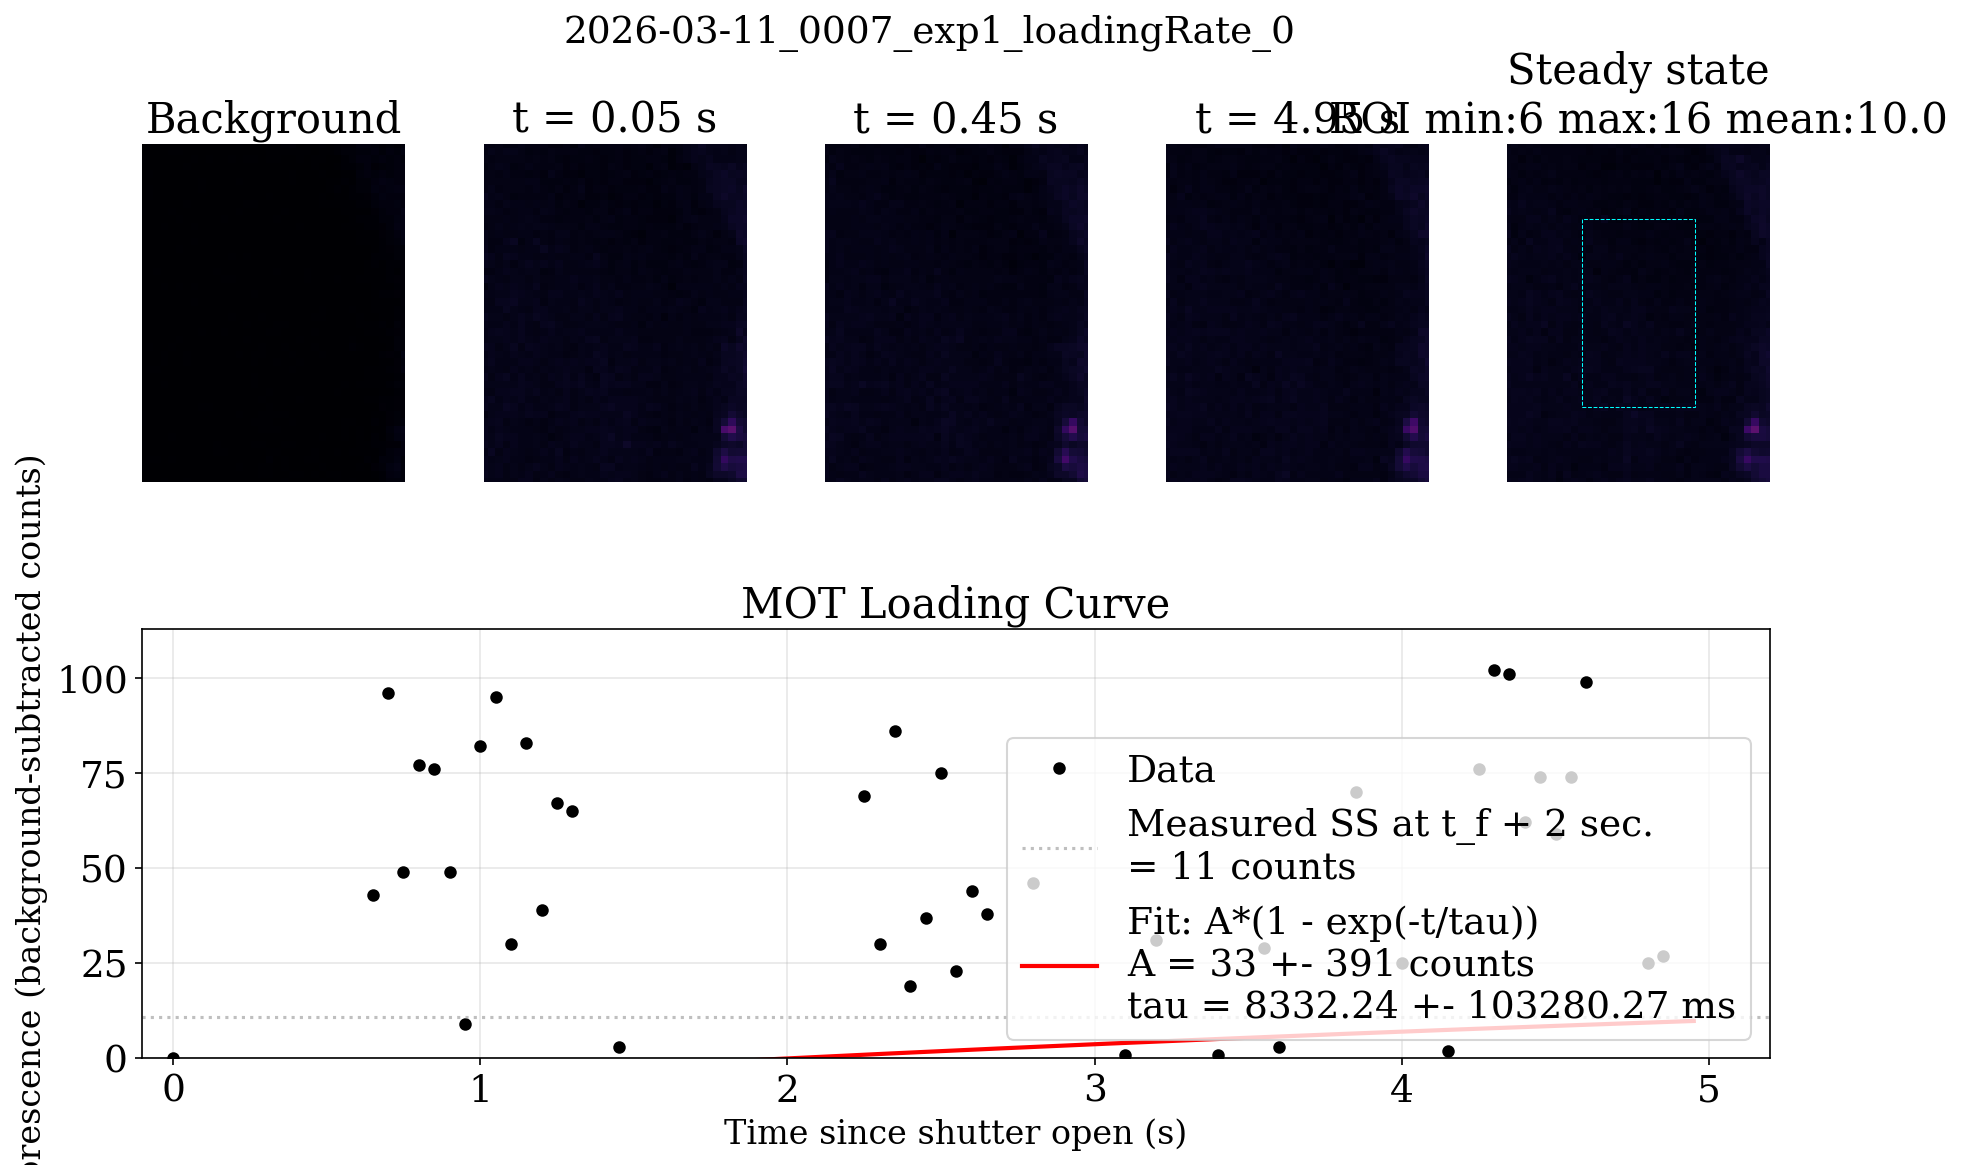
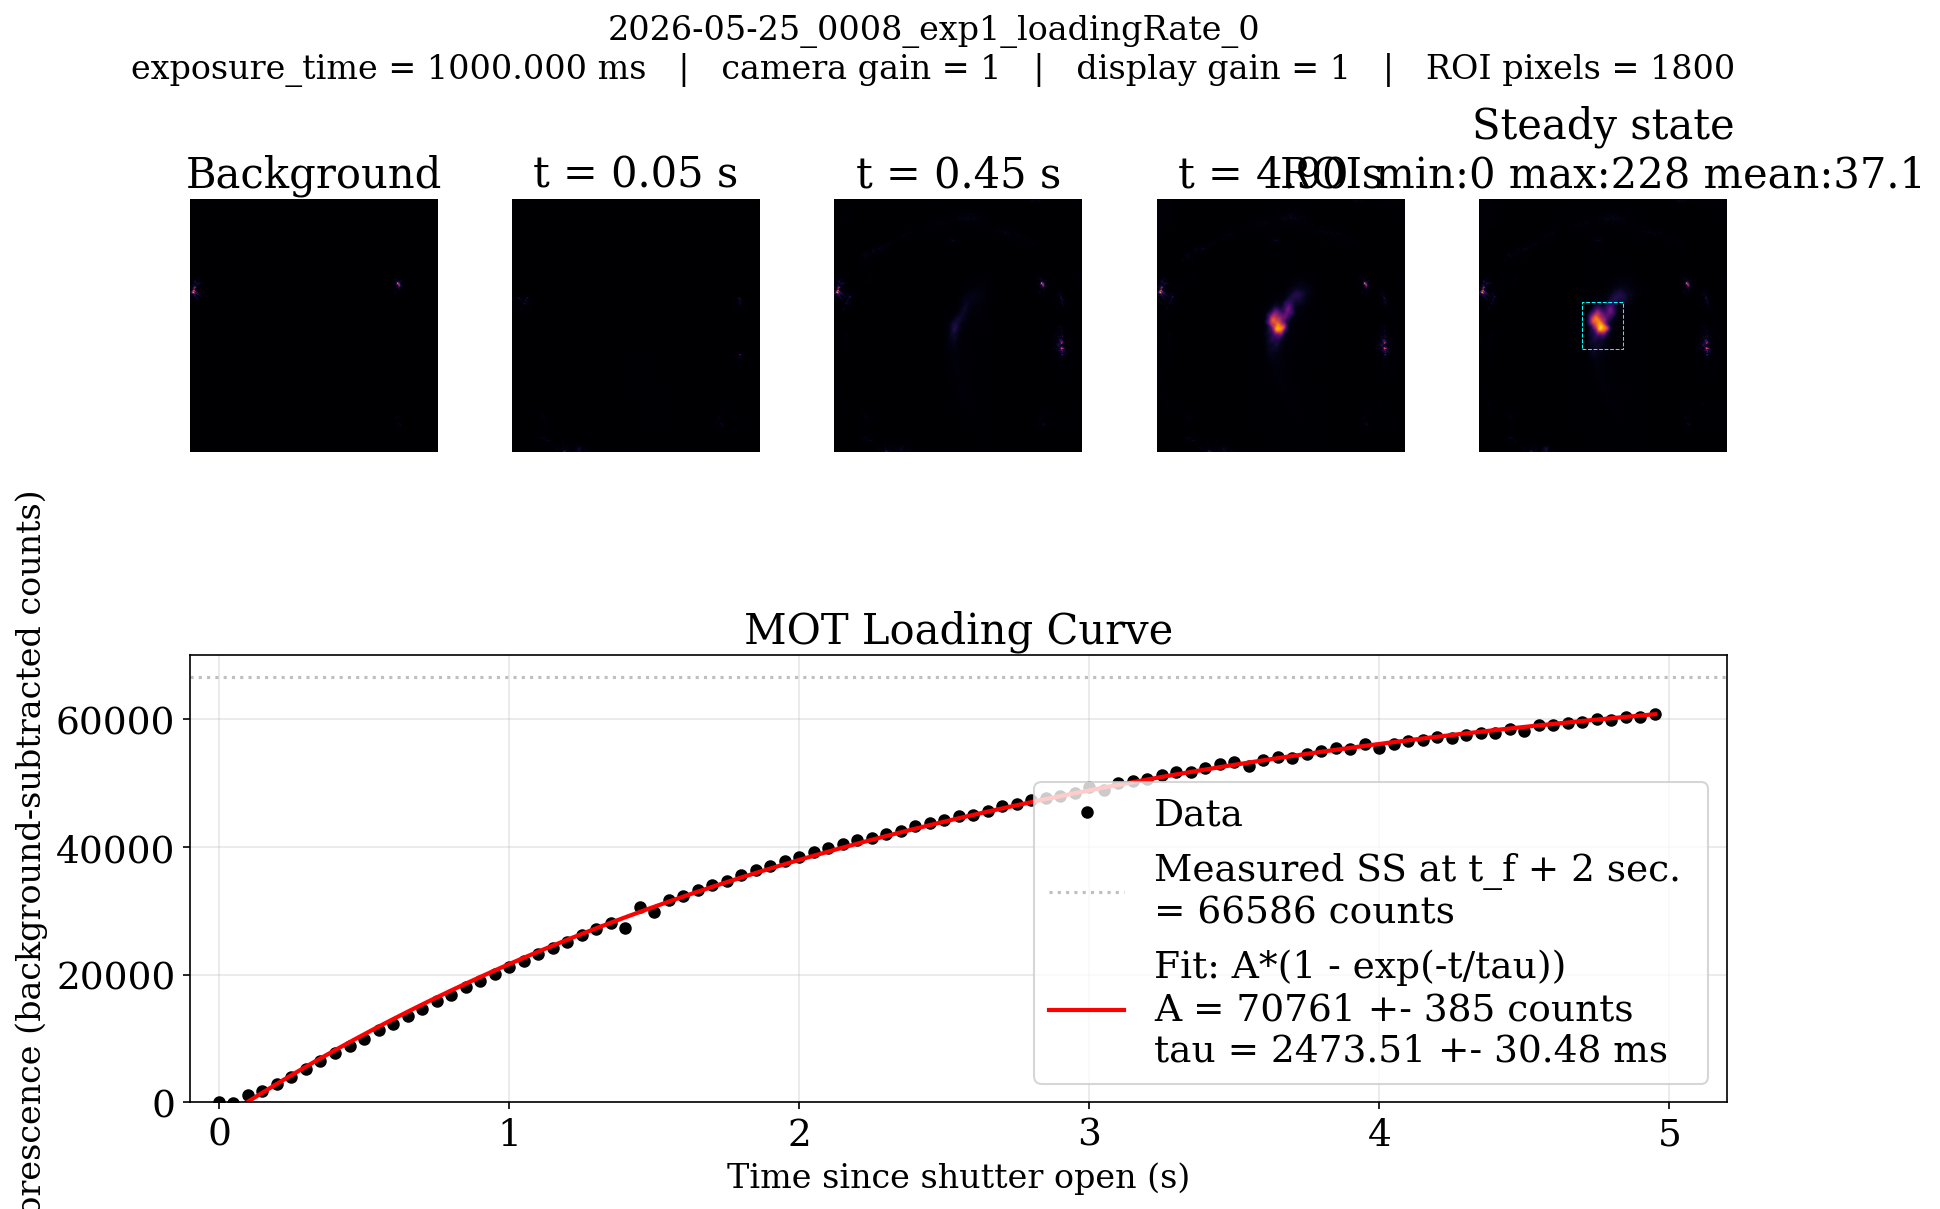
2 weeks of updates. messing with launch mostly

diff --git a/controlsAndMotDiagnosticAndLaunchTest_3_10_26/exp11_switchArmsAndLaunch.py b/controlsAndMotDiagnosticAndLaunchTest_3_10_26/exp11_switchArmsAndLaunch.py
@@ -21,17 +21,17 @@ from labscriptlib.eedmLabscriptOps.connection_table import ct
 
 def set_beam_path(t, mode):
     """Switch beam path between 'MOT' and 'MRR'."""
-    if mode == 'MOT': #set LCR to V2 (low)
+    if mode == 'MOT': #set LCR to V2 (low) #note, old liquid crystal controller is BACKWARDS from new one, high = MOT 
         #MOT_SHUTTER_do.open(t)
         #MRR_SHUTTER_do.close(t)
-        LCR_do.go_low(t)
+        LCR_do.go_high(t)
         LCR_BOT_do.go_low(t)
         #LCR_HOR_ao.constant(t, 0.0)
         LCR_TOP_ao.constant(t, 0.0)
     elif mode == 'MRR': #set LCR to V1 (high)
         #MOT_SHUTTER_do.close(t)
         #MRR_SHUTTER_do.open(t)
-        LCR_do.go_high(t)
+        LCR_do.go_low(t)
         #LCR_BOT_do.go_high(t)
         #LCR_HOR_ao.constant(t, 5.0)
         #LCR_TOP_ao.constant(t, 5.0)
@@ -107,7 +107,7 @@ if __name__ == "__main__":
     bbd301.set_velocity(1, v_stage)
     bbd301.set_acceleration(1, a_stage)
     bbd301.set_move_distance(1, xf_stage)
-    bbd301.set_reset_position(1, 135)
+    bbd301.set_reset_position(1, 140)
 
     if 1: #print stage config for debugging
         print(f"Stage config:")
@@ -136,9 +136,13 @@ if __name__ == "__main__":
     MAIN_REL_JUMP_do.go_low(t)
     #REPUMP_REL_JUMP_do.go_low(t)
     MRR_TRIG_do.go_low(t)
-    MAIN_JUMP_AMP_ao.constant(t, v_laser_jump_rel)
+    #MAIN_JUMP_AMP_ao.constant(t, v_laser_jump_rel)
+    MAIN_JUMP_AMP_ao.constant(t, 0.0)
     set_beam_path(t, 'MOT')
     MOT_SHUTTER_do.close(t)
+    MRR_SHUTTER_2_do.close(t)
+    MRR_SHUTTER_do.open(t)
+    
 
     LCR_HOR_ao.constant(t, 5.0)
     
@@ -165,10 +169,10 @@ if __name__ == "__main__":
     # Reference image -- MOT in home position
     # ============================================================
     add_time_marker(t, "Reference image", verbose=True)
-    #my_ids_camera.expose(
-    #    t=t, name='reference', frametype='atom',
-    #    trigger_duration=1*ms
-    #)
+    my_ids_camera.expose(
+        t=t, name='reference', frametype='atom',
+        trigger_duration=1*ms
+    )
     t += 0.01
 
     # ============================================================
@@ -182,6 +186,7 @@ if __name__ == "__main__":
     # PGC on MOT arm -- red shift on
     # ============================================================
     add_time_marker(t, "PGC on MOT arm", verbose=True)
+    MAIN_JUMP_AMP_ao.constant(t-0.001, v_laser_jump_rel)
     MAIN_REL_JUMP_do.go_high(t)
     t += t_redshift
 
@@ -191,21 +196,27 @@ if __name__ == "__main__":
     # ============================================================
     add_time_marker(t, "Close MOT shutter -- dark time", verbose=True)
     MOT_SHUTTER_do.close(t)
+    
+    #scope_trig_do.go_high(t)#using this as a scope trigger. Delete this
+    #scope_trig_do.go_low(t+0.1)
+    #t_trig = t
 
-    t += 0.001
+    t += 0.002
     #REPUMP_SHUTTER_do.close(t)
-    MAIN_REL_JUMP_do.go_low(t+0.002)
+    MAIN_REL_JUMP_do.go_low(t)
+    MAIN_JUMP_AMP_ao.constant(t+0.001, 0.00)
+    
 
     add_time_marker(t, "Switch to MRR arm", verbose=True)
     set_beam_path(t, 'MRR')
-   #LCR_TOP_ao.constant(t, 5.0)
+    #LCR_TOP_ao.constant(t, 5.0)
 
     t += t_dark 
     # ============================================================
     # Switch to MRR arm -- LCRs flip during dark time
     # ============================================================
 
-    MRR_SHUTTER_do.open(t)
+    MRR_SHUTTER_2_do.open(t)
 
     # ============================================================
     # Trigger stage to start accelerating
@@ -214,58 +225,65 @@ if __name__ == "__main__":
     print('v stage =', v_stage)
     print('a stage =', a_stage)
     print('v/a =', v_stage/a_stage)
-    add_time_marker(t-(v_stage/a_stage + 0.03), "Trigger MRR stage", verbose=True)
+    add_time_marker(t-(0.13), "Trigger MRR stage", verbose=True)
     if MRR_TRIG_BOOL:
-        MRR_TRIG_do.go_high(t-(v_stage/a_stage + 0.03)) #trigger at time such that stage starts moving at t=0
-        MRR_TRIG_do.go_low(t-(v_stage/a_stage + 0.03) + 0.011)
+        MRR_TRIG_do.go_high(t-(0.13)) #trigger at time such that stage starts moving at t=0
+        MRR_TRIG_do.go_low(t-(0.13) + 0.011)
+        #scope_trig_do.go_high(t-(v_stage/a_stage + 0.05))#using this as a scope trigger. Delete this
+        #scope_trig_do.go_low(t-(v_stage/a_stage + 0.05) + 0.011)
+        #ai1.acquire(label='MRR_position', start_time = t-(v_stage/a_stage + 0.05), end_time =t-(v_stage/a_stage + 0.05)+0.2)
 
     # ============================================================
     # Wait for photodiode trigger confirming shutter is open
     # ============================================================
     add_time_marker(t, "Wait for shutter open trigger", verbose=True)
     wait("mrr_shutter_open", t, timeout=0.1)
-    scope_trig_do.go_high(t)#using this as a scope trigger. Delete this
-    scope_trig_do.go_low(t+0.1)
+    
+    scope_trig_do.go_high(t)
+    scope_trig_do.go_low(t+0.02)
+    t_trig = t
 
-    ai0.acquire(label='TOF_florescence', start_time = t, end_time =t+0.1)
+    #ai0.acquire(label='TOF_florescence', start_time = t, end_time =t+0.1)
 
     
     #============================================================
     #PGC in moving frame -- red shift on ~50 us after shutter open
     #============================================================
     
-    MAIN_JUMP_AMP_ao.constant(t, -2)
+    MAIN_JUMP_AMP_ao.constant(t, -0.05)
 
     my_ids_camera.expose(
-    t=t+0.002, name=f'molasses', frametype='atom',
+    t=t+0.0005, name=f'molasses', frametype='atom',
     trigger_duration=1*ms)
 
     
     #t += 1000e-6 #works for drop
     t += 0.003
-    LCR_HOR_ao.constant(t-0.0045, 0.0)#using as MRR shutter 2 ttl
-
-
-
 
 
     add_time_marker(t, "PGC in moving frame", verbose=True)
     MAIN_REL_JUMP_do.go_high(t)
-    #MAIN_JUMP_AMP_ao.ramp(t, 0.003, 0, -0.05, 1e5)
+    #MAIN_JUMP_AMP_ao.ramp(t-0.0005, 0.002, 0, -.15, 1e5)
     #t += 0.01 #works for drop
-    t+= 0.003
+    t+= 0.002
+    MRR_SHUTTER_do.close(t)
+
 
 
     #============================================================
      #Jump back on resonance for imaging
     #============================================================
+    t += 0.002
     MAIN_REL_JUMP_do.go_low(t)
     
     #jump probe to blue
     t += 0.001
-    MAIN_JUMP_AMP_ao.constant(t, 0.001)
-    t += 0.001
+    MAIN_JUMP_AMP_ao.constant(t, -0.005)
+    t += 0.02
     MAIN_REL_JUMP_do.go_high(t)
+    MAIN_REL_JUMP_do.go_low(t+0.02)
+    
+    #REPUMP_SHUTTER_do.close(t)
     '''
     t += t_camera_delay
     my_ids_camera.expose(
@@ -293,7 +311,7 @@ if __name__ == "__main__":
     set_beam_path(t, 'MOT')
     REPUMP_SHUTTER_do.open(t)
     MOT_SHUTTER_do.open(t)
-    MRR_SHUTTER_do.close(t)
+    MRR_SHUTTER_2_do.close(t)
 
     t += .1
     stop(t)

diff --git a/controlsAndMotDiagnosticAndLaunchTest_3_10_26/lyse_exp1_loadingRate.py b/controlsAndMotDiagnosticAndLaunchTest_3_10_26/lyse_exp1_loadingRate.py
@@ -27,13 +27,16 @@ plt.rc('figure', titlesize=18)
 # ROI in pixel coordinates (row_start, row_end, col_start, col_end)
 #ROI = (275, 295, 348, 365) #from 2026 Mar 10
 #ROI = (268, 285, 353, 366) 2026 Mar 20
-ROI = (275, 300, 380, 395)
+ROI = (565, 610, 760, 800)
+DISPLAY_GAIN = 1  # display-only multiplier for images (script-side)
 # Image orientation / device name in HDF5
 ORIENTATION = 'my_ids_camera'
 
 # How many loading snapshots to show (evenly spaced from the series)
 N_SNAPSHOTS = 100
 
+n_roi_pix = (ROI[1] - ROI[0]) * (ROI[3] - ROI[2])
+print(f"ROI total pixels: {n_roi_pix}")
 # ============================================================
 # Model
 # ============================================================
@@ -49,7 +52,17 @@ run = lyse.Run(lyse.path)
 
 with h5py.File(lyse.path, 'r') as f:
     IMAGE_INTERVAL = float(f['globals'].attrs['image_interval'])
-    image_group = f['images'][ORIENTATION]  
+    # Camera settings from globals
+    try:
+        EXPOSURE_TIME = float(f['globals'].attrs['exposure_time'])
+    except (KeyError, ValueError):
+        EXPOSURE_TIME = None
+    try:
+        CAMERA_GAIN = float(f['globals'].attrs['gain'])
+    except (KeyError, ValueError):
+        CAMERA_GAIN = None
+
+    image_group = f['images'][ORIENTATION]
 
     # Background
     bg = np.array(image_group['background']['atom'], dtype=float)
@@ -135,7 +148,22 @@ else:
 # ============================================================
 n_image_panels = 2 + len(snap_indices)  # background + snapshots + steady state
 fig = plt.figure(figsize=(14, 8))
-fig.suptitle(shot_file.replace('.h5', ''), fontsize=18)
+
+# Build a title that includes camera settings
+title_parts = [shot_file.replace('.h5', '')]
+cam_bits = []
+if EXPOSURE_TIME is not None:
+    cam_bits.append(f'exposure_time = {EXPOSURE_TIME*1000:.3f} ms')
+else:
+    cam_bits.append('exposure_time = N/A')
+if CAMERA_GAIN is not None:
+    cam_bits.append(f'camera gain = {CAMERA_GAIN:g}')
+else:
+    cam_bits.append('camera gain = N/A')
+cam_bits.append(f'display gain = {DISPLAY_GAIN:g}')
+cam_bits.append(f'ROI pixels = {n_roi_pix}')
+title_parts.append('   |   '.join(cam_bits))
+fig.suptitle('\n'.join(title_parts), fontsize=16)
 
 # Use gridspec: top row for images, bottom row for the loading curve
 gs = fig.add_gridspec(2, n_image_panels, height_ratios=[1, 1.2], hspace=0.35, wspace=0.3)
@@ -146,7 +174,7 @@ vmin = min(img.min() for img in all_imgs)
 vmax = max(img.max() for img in all_imgs)
 
 #zoom into a pad region around the ROI
-pad = 10
+pad = 100
 plot_r0 = max(0, r0 - pad)
 plot_r1 = min(ss_img.shape[0], r1 + pad)
 plot_c0 = max(0, c0 - pad)
@@ -155,7 +183,7 @@ plot_c1 = min(ss_img.shape[1], c1 + pad)
 # --- Top row: images ---
 # Background
 ax = fig.add_subplot(gs[0, 0])
-ax.imshow(bg, vmin=vmin, vmax=vmax, cmap='inferno', origin='lower')
+ax.imshow(bg*DISPLAY_GAIN, vmin=vmin, vmax=vmax, cmap='inferno', origin='lower')
 ax.set_xlim(plot_c0, plot_c1)
 ax.set_ylim(plot_r0, plot_r1)
 ax.set_title('Background')
@@ -164,7 +192,7 @@ ax.axis('off')
 # Loading snapshots
 for panel_i, img_i in enumerate(snap_indices):
     ax = fig.add_subplot(gs[0, panel_i + 1])
-    ax.imshow(loading_imgs[img_i], vmin=vmin, vmax=vmax, cmap='inferno', origin='lower')
+    ax.imshow(loading_imgs[img_i]*DISPLAY_GAIN, vmin=vmin, vmax=vmax, cmap='inferno', origin='lower')
     ax.set_xlim(plot_c0, plot_c1)
     ax.set_ylim(plot_r0, plot_r1)
     ax.set_title(f't = {img_i * IMAGE_INTERVAL:.2f} s')
@@ -172,7 +200,7 @@ for panel_i, img_i in enumerate(snap_indices):
 
 # Steady state with ROI box
 ax_ss = fig.add_subplot(gs[0, -1])
-ax_ss.imshow(ss_img, vmin=vmin, vmax=vmax, cmap='inferno', origin='lower')
+ax_ss.imshow(ss_img*DISPLAY_GAIN, vmin=vmin, vmax=vmax, cmap='inferno', origin='lower')
 ax_ss.set_xlim(plot_c0, plot_c1)
 ax_ss.set_ylim(plot_r0, plot_r1)
 roi_rect = Rectangle(
@@ -180,7 +208,6 @@ roi_rect = Rectangle(
     linewidth=.5, edgecolor='cyan', facecolor='none', linestyle='--'
 )
 ax_ss.add_patch(roi_rect)
-#ax_ss.set_title('Steady state')
 roi_data = ss_img[r0:r1, c0:c1]
 ax_ss.set_title(f'Steady state\nROI min:{roi_data.min():.0f} max:{roi_data.max():.0f} mean:{roi_data.mean():.1f}')
 ax_ss.axis('off')

diff --git a/controlsAndMotDiagnosticAndLaunchTest_3_10_26/exp1_loadingRate.py b/controlsAndMotDiagnosticAndLaunchTest_3_10_26/exp1_loadingRate.py
@@ -29,8 +29,9 @@ if __name__ == "__main__":
     MOT_COIL_do.go_high(t)       # coils on for the whole shot
     MRR_TRIG_do.go_low(t)        # MRR not used
     MRR_SHUTTER_do.close(t)      # start with shutter closed
+    MOT_SHUTTER_do.close(t)     # start with shutter closed
     REPUMP_SHUTTER_do.go_high(t)  # trigger line low
-    LCR_do.go_high(t)             # LCR on for MRR beam
+    LCR_do.go_low(t)             # LCR on for MRR beam
 
     t += 0.01  # 10 ms buffer
 
@@ -57,6 +58,7 @@ if __name__ == "__main__":
     # but we wait to be sure. Coils stay on — doesn't matter with
     # no light.
     # ============================================================
+
     add_time_marker(t, "Waiting for MOT to disperse", verbose=True)
     t += disperse_time
 
@@ -72,13 +74,13 @@ if __name__ == "__main__":
         frametype='atom',
         trigger_duration=1*ms
     )
-    t += 0.01  # 10 ms for camera refresh
+    t += 0.025  # 10 ms for camera refresh
 
     # ============================================================
     # Open shutter and start taking images as MOT loads
     # ============================================================
     add_time_marker(t, "Open shutter, begin loading", verbose=True)
-    MRR_SHUTTER_do.open(t)
+    MOT_SHUTTER_do.open(t)
     t+=0.001 # small delay to ensure shutter is open before first image
     # ============================================================
     # Take images at regular intervals during loading
@@ -99,7 +101,7 @@ if __name__ == "__main__":
     # fluorescence for atom number comparisons in later experiments.
     # ============================================================
     add_time_marker(t, "Steady-state reference", verbose=True)
-    t += 1.0  # extra second to make sure we're at steady state
+    t += 4.0  # extra second to make sure we're at steady state
     my_ids_camera.expose(
         t=t,
         name='steady_state',
@@ -110,9 +112,9 @@ if __name__ == "__main__":
     # ============================================================
     # Cleanup: leave everything in a good state for next shot
     # ============================================================
-    t += 0.1
+    t += 2
     MOT_COIL_do.go_high(t)
-    MRR_SHUTTER_do.open(t)
+    MOT_SHUTTER_do.open(t)
 
     t += 0.01
     stop(t)

diff --git a/controlsAndMotDiagnosticAndLaunchTest_3_10_26/lyse_generic_singleshit_allImages.py b/controlsAndMotDiagnosticAndLaunchTest_3_10_26/lyse_generic_singleshit_allImages.py
@@ -16,7 +16,7 @@ plt.rc('figure', titlesize=18)
 
 ORIENTATION = 'my_ids_camera'
 ROI = (510, 565, 780, 810)
-gain = 14
+gain = 22
 
 shot_file = os.path.basename(lyse.path)
 
